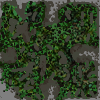
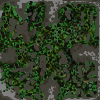
uued pildid

diff --git a/vision.py b/vision.py
@@ -211,7 +211,7 @@ def draw_light_source_and_rays(self, screen, position, light_range):
     visible_points.append(light_source)
 
     # Step 3: Create a polygon to display as the smaller circle
-    pygame.draw.polygon(screen, pygame.Color('yellow'), visible_points, 1) # Outline for visibility
+    # pygame.draw.polygon(screen, pygame.Color('yellow'), visible_points, 1) # Outline for visibility
 
     # Step 4: Draw shadows and walls as per the existing code
     draw_shadows(self, screen, visible_points)

diff --git a/render.py b/render.py
@@ -85,7 +85,7 @@ class RenderPictures:
                     if terrain_value == None: pass
 
                     if terrain_value == 99:
-                        image_name = "Maze_Wall_" + str(random.randint(0, 4))
+                        image_name = "Maze_Wall_" + str(random.randint(0, 5))
                         image = ImageLoader.load_image(image_name)
 
                         position = (i, j)  # Using grid indices directly for the position
